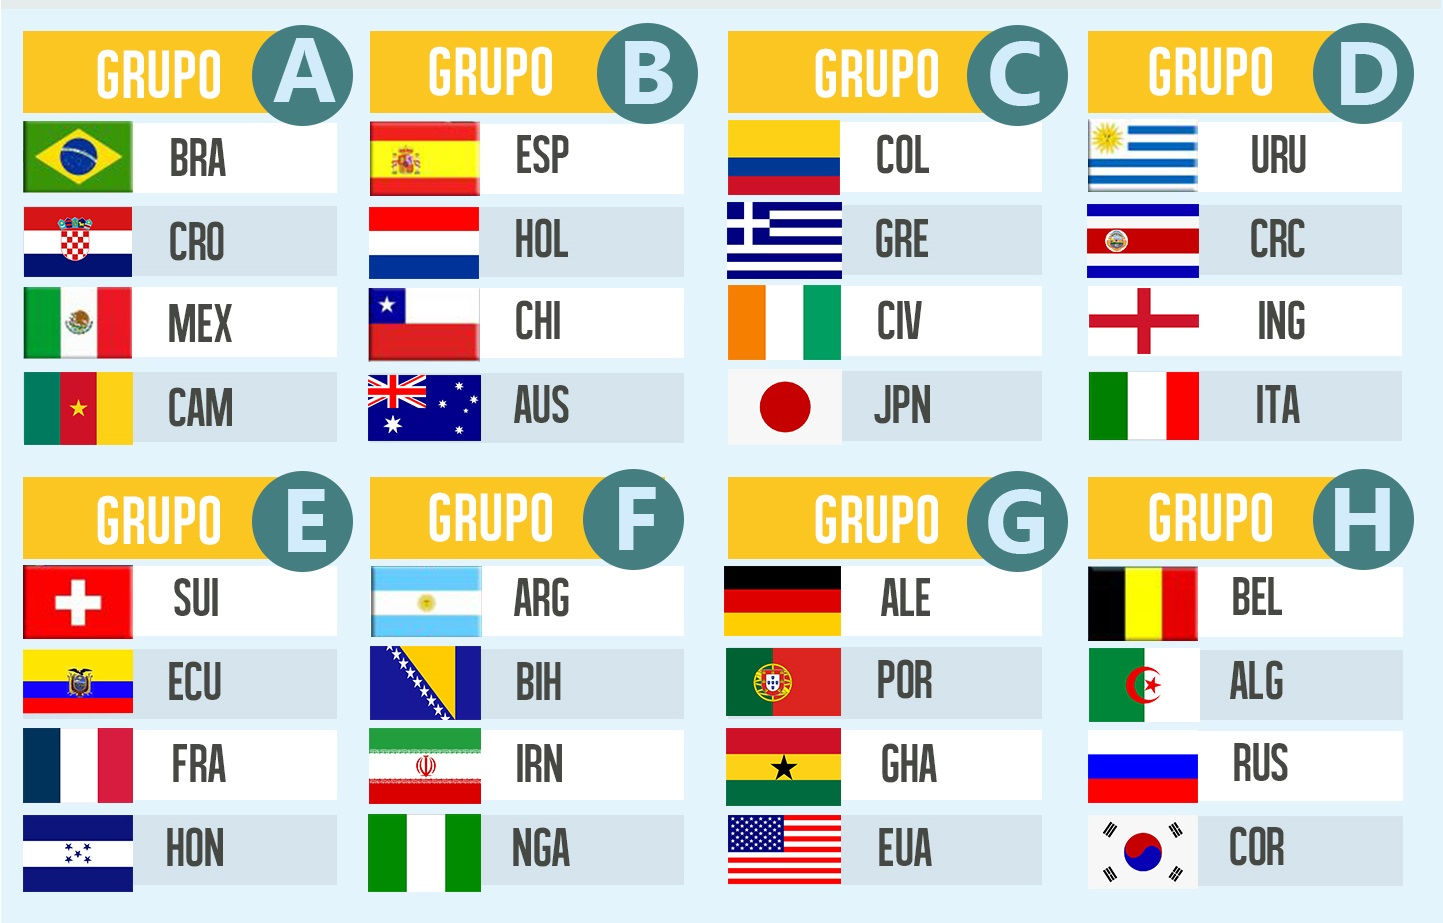
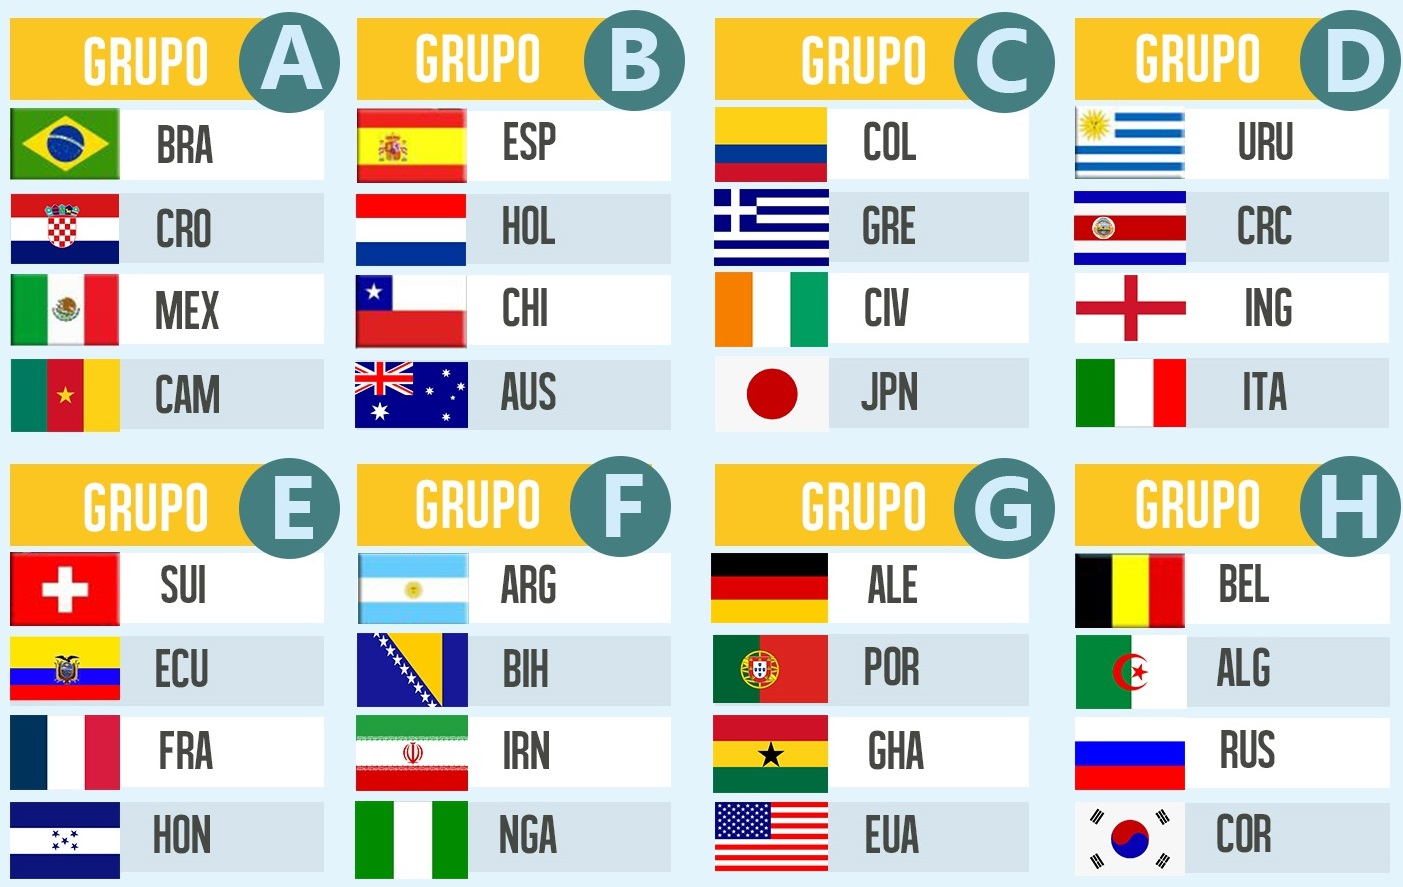
se le dio el acabado a las paginas de calendario y llaves de campeonto

diff --git a/css/style_llaves.css b/css/style_llaves.css
@@ -1,8 +1,16 @@
 #imgcopa{
-	width: 100%;
-	height: 530px;
-	box-shadow: 0px 0px 10px #000;
+    padding-top: 10px;
+    padding-left: 15px;
+	width: 97%;
+	height: 500px;
+    border-radius: 10px;
+}
+#copa_div{
+    width: 100%;
+    height: 520px;
+    box-shadow: 0px 0px 10px #000;
     border-radius: 7px;
+    background-image: url(../imgs/button.jpg);
 }
 .titulo{
     width: 70%;
@@ -23,15 +31,16 @@
     background-size: 100% 100%;
     background-repeat: no-repeat;
     width: 700px;
-    height: 1100px;
+    height: 1300px;
     display: flex;
     flex-wrap: wrap;
     justify-content: center;
     border-radius: 7px;
+
 }
 .articulo_1{
 	width: 700px;
-	height: 1100px;
+	height: 1300px;
 	padding-top: 20px;
 	padding-left: 20px;
     padding-right:20px;
@@ -79,4 +88,24 @@
 #input_res{
 	margin: 10px;
 	width:20px;
+    text-align: center;
+
+}
+.item_titulo{
+    border-radius: 10px;
+    margin: 10px;
+    padding-top: 20px;
+    padding-left: 10px,
+    padding-right:10px;
+    width: 130px;
+    height: 30px;
+    margin-bottom:5px; 
+    box-shadow: 0px 0px 10px #000;
+    background-image: url(../imgs/fb.jpg);
+}
+.item_titulo h3{
+    font-size:14px; 
+    color:#000;
+    text-align: center;
+    font-family: 'Alfa Slab One', cursive;
 }

diff --git a/llaves.html b/llaves.html
@@ -25,15 +25,19 @@
                 </nav>
             </div>
             </header>
-            <div> 
+            <div id="copa_div"> 
                 <img id="imgcopa" src="imgs/copa.jpg">
             </div>
             <div class="titulo">
-                <h1>Llaves del capeonato</h1>
+                <h1>Llaves del campeonato</h1>
             </div>
             <section id="contenido">
             	<article class="articulo_1">
                     <div class="contcancha">
+                        <div class="item_titulo"><h3>Octavos de final</h3></div>
+                        <div class="item_titulo"><h3>Cuartos de final</h3></div>
+                        <div class="item_titulo"><h3>Semi-final</h3></div>
+                        <div class="item_titulo"><h3>Final</h3></div>
                         <div class="item_use"><input id="input" type="text"><br>VS<br><input id="input" type="text"><br><input id="input_res" type="text">-<input id="input_res" type="text"></div>
                       	<div class="item"></div>
                       	<div class="item"></div>

diff --git a/index.html b/index.html
@@ -50,7 +50,7 @@
                     </p>
                 </article>
                  <article class=" articulo_3">
-                    <h1 class="titulo">El balon oficial</h1>
+                    <h1 class="titulo">El balón oficial</h1>
                     <img id="balon" src="imgs/balon.jpg" alt="">
                     <p>A falta de poco menos de dos años para su comienzo, la FIFA se encargó de aumentar las expectativas por el evento y ya presentó a la máxima figura del certamen: la pelota.
                     Fabricada por uno de los sponsors oficiales del Mundial, Adidas, la Krasava será el balón oficial de la Copa Confederaciones 2017 y el posterior Mundial.

diff --git a/css/style_calendario.css b/css/style_calendario.css
@@ -16,6 +16,21 @@
 	color:#F0FFFF;
     font-family: 'Alfa Slab One', cursive;
 }
+#img_grupos{
+    width: 200px;
+    height: 500px;
+    border-radius: 10px;
+}
+#grupo_div{
+    width: 97%;
+    height: 520px;
+    padding-top: 10px;
+    padding-left: 15px;
+    padding-right: 15px;
+    box-shadow: 0px 0px 10px #000;
+    border-radius: 7px;
+    background-image: url(../imgs/button.jpg);
+}
 .grupo_a{
     width: 600px;
     height: auto;

diff --git a/calendario.html b/calendario.html
@@ -25,7 +25,7 @@
                 </nav>
             </div>
             </header>
-            <div id="grupos"> 
+            <div id="grupo_div"> 
                 <img id="img_grupos" src="imgs/grupos.jpg">
             </div>
             <div class="titulo">
